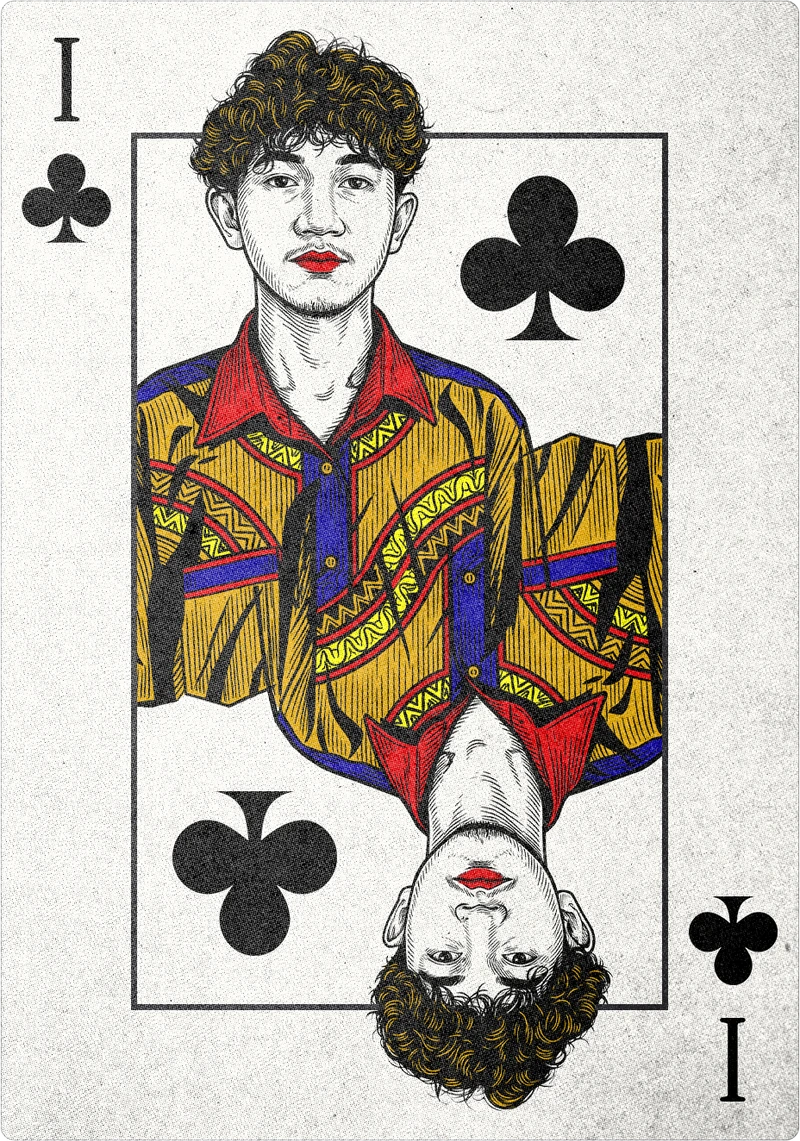
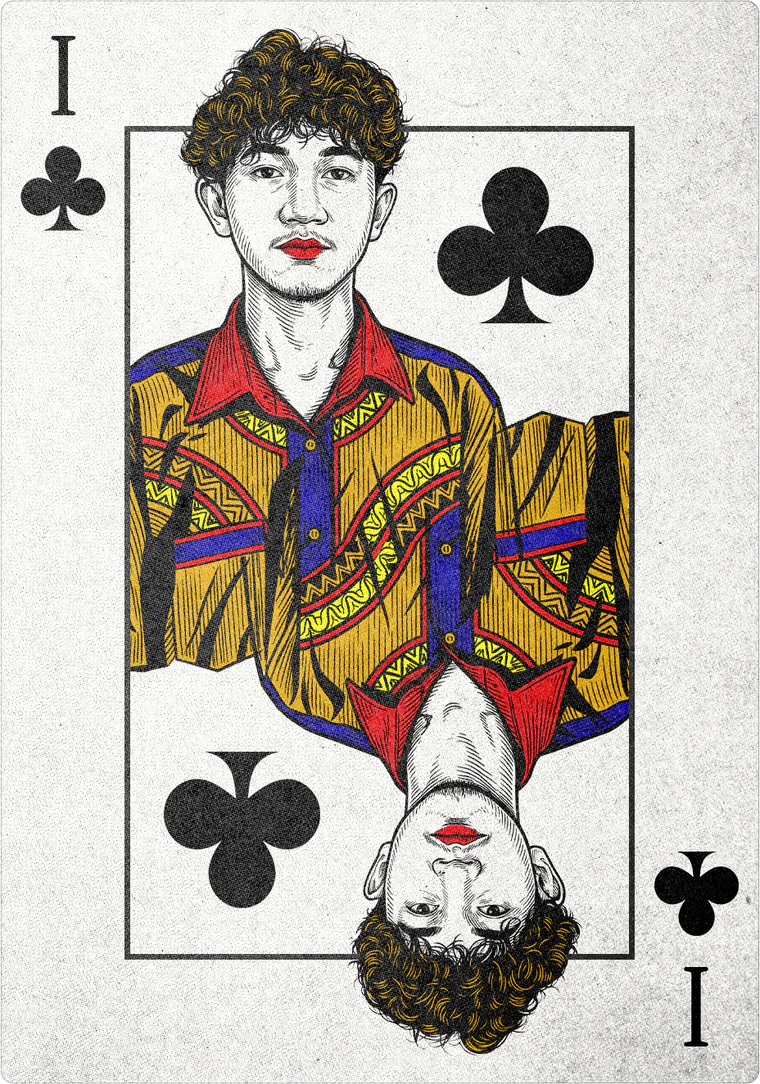
Work: kartu profil lazy-load + kompres ulang
Kartu remi di section Face ada jauh di bawah, tapi tadinya ikut diunduh
saat halaman dibuka. Sekarang loading="lazy" + width/height (tanpa
geser layout), dan diekspor ulang dari PNG sumber 760px q82:
462 KB -> 322 KB. Beban awal work.html turun ~460 KB.

diff --git a/work.html b/work.html
@@ -147,7 +147,7 @@
       <p class="face-label">The face behind all of this</p>
       <div class="face-stage">
         <button class="face-card" id="faceCard" aria-haspopup="dialog" aria-label="Open profile — Muhammad Ihsan Rizka">
-          <img src="assets/img/profile-card.webp" alt="Muhammad Ihsan Rizka — playing card portrait" draggable="false">
+          <img src="assets/img/profile-card.webp?v=2" alt="Muhammad Ihsan Rizka — playing card portrait" width="760" height="1084" loading="lazy" decoding="async" draggable="false">
         </button>
       </div>
       <p class="face-hint" aria-hidden="true">▚ PICK A CARD — CLICK IT ▞</p>
